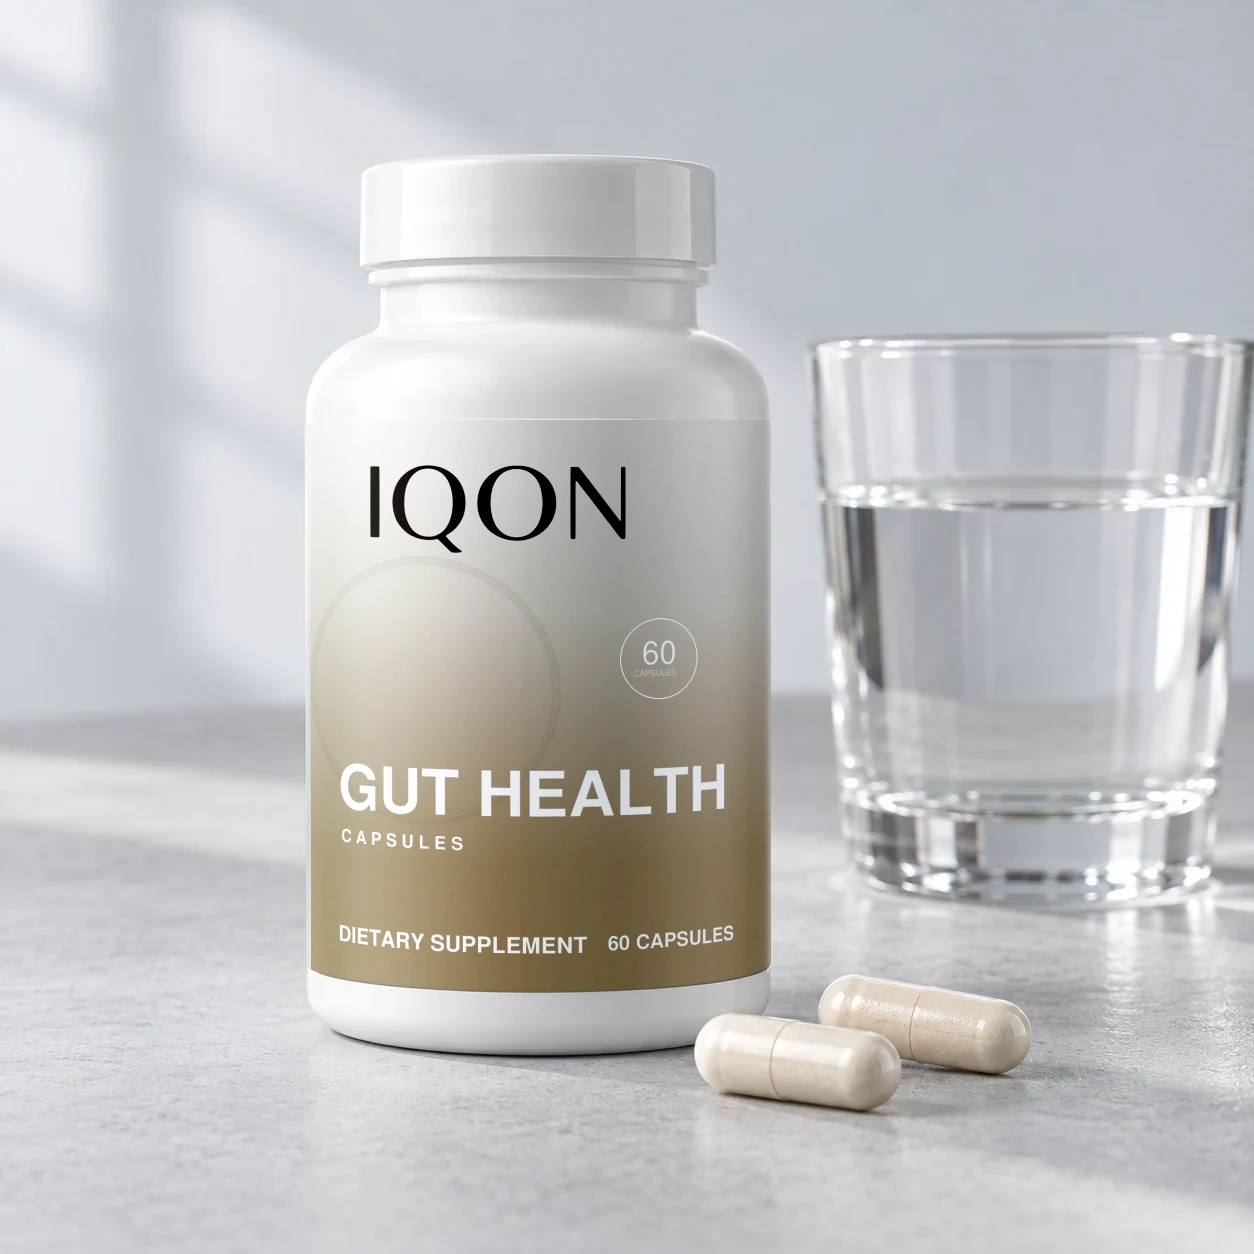
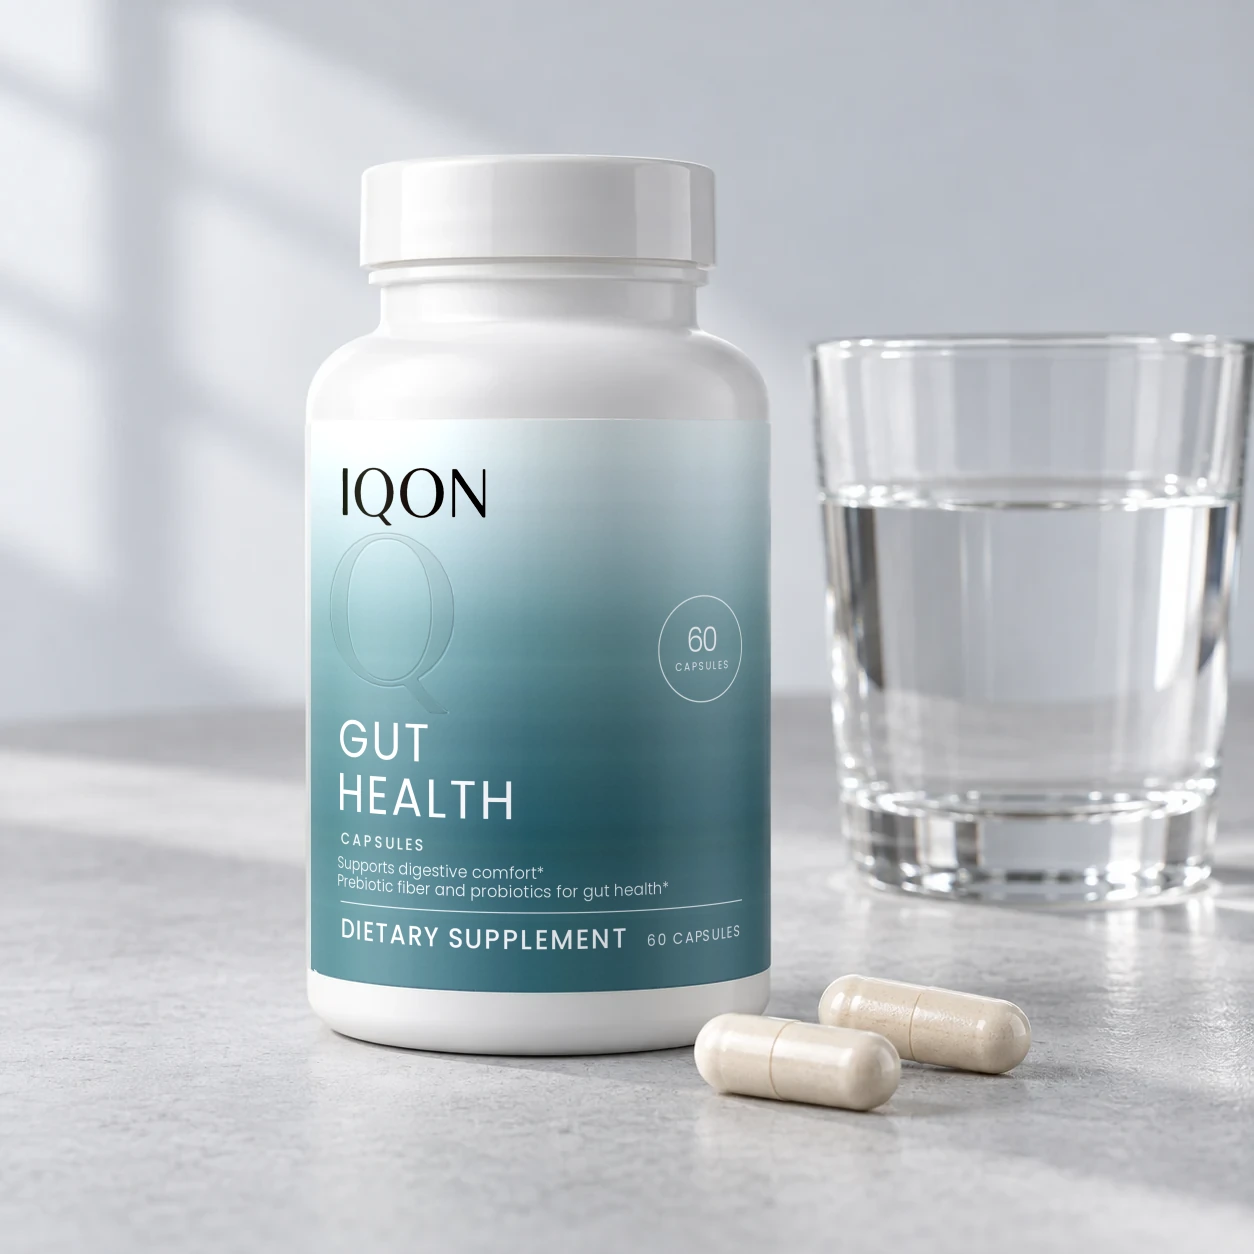
Recolour Gut Health imagery to the Colon petrol teal house label
The Gut Health label now uses the petrol teal gradient of the Colon Gentle
Cleanse label it replaces. The ground is calibrated row for row against the
live Colon pack shot. The label also follows the house layout of the other
bottles: light, letter-spaced name, CAPSULES, two asterisked benefit lines,
a hairline rule, DIETARY SUPPLEMENT / 60 CAPSULES and a hairline 60 badge.
This applies to the pack shot, the Supplement Facts view, the editorial
scene, the email thumbnail and the lineup slot. Same bottle, geometry and
backgrounds.

Changed region(s): [[0.2488, 0.3732, 0.622, 0.8086]]

diff --git a/docs/supplement-images.md b/docs/supplement-images.md
@@ -58,7 +58,9 @@ Eight generated alternatives were rejected for backdrop, scale or tiny-letter dr
 
 Colon Gentle Cleanse was retired and its site imagery removed (`04_pack_colon_cleanse`, `15_hero_colon_sachet`, its editorial scene and material photograph, and `sachet-macro`). The order email thumbnail `email/products/colon-gentle-cleanse.jpg` is kept so emails already sent keep their image.
 
-Gut Health imagery was produced locally from the final IQON label artwork (`IQON supplement labels/final/Gut Health/IQON_Gut_Health_Label_proof.png`; the PDF does not embed its Helvetica fonts, so the owner's proof is the faithful rasterisation) without generative services. The Liver Support studio bottle (`07_pack_liver_support.webp`, the same capsule bottle format) supplies the bottle, light and background. The label is wrapped onto the cylinder with edge foreshortening so only the front panel faces the camera, as on the other bottles: the FDA statement and Supplement Facts panels curve out of view. Lighting is fitted per column from the Liver label's own plain white and solid green bands, so highlight, rim light and edge falloff match the reference. The script is kept with the PR evidence (`make_packshot_v2.py`). These are faithful composites, not photographs of a physical Gut Health bottle; replace them with studio photography when available.
+Gut Health imagery was produced locally without generative services. The label uses the petrol teal of the Colon Gentle Cleanse label it replaces, and the house layout of the other IQON bottles. The front panel was rebuilt on the Liver Support label artwork (`IQON_LiverSupport_Label.pdf`, same 450×180 pt die line). The IQON wordmark, the Q watermark, CAPSULES, the hairline rule, DIETARY SUPPLEMENT, 60 CAPSULES and the badge ring are reused from that artwork. GUT HEALTH, the two benefit lines and the badge figure are set in Poppins at the sizes and tracking of the Liver text they replace. The benefit lines are "Supports digestive comfort*" and "Prebiotic fiber and probiotics for gut health*", the claims used in the product copy. The directions, FDA statement and Supplement Facts panels come from the Gut Health proof (`IQON supplement labels/final/Gut Health/IQON_Gut_Health_Label_proof.png`). The label ground gradient is calibrated so that the pack shot's centre column matches the live Colon pack shot (`iqon-colon-gentle-cleanse-petrol-teal.webp`) row for row.
+
+The Liver Support studio bottle (`07_pack_liver_support.webp`, the same capsule bottle format) supplies the bottle, light and background. The artwork is wrapped onto the cylinder, and its mapping is fitted to the Liver label printed in each photograph. Lighting is fitted per column from the Liver label's plain white and solid green bands, so highlight, rim light and edge falloff match the reference. Scripts are kept with the PR evidence (`teal_label_art.py`, `make_teal_v3.py`). These are faithful composites, not photographs of a physical Gut Health bottle; replace them with studio photography when available.
 
 - `04_pack_gut_health.webp`: primary pack shot, front panel.
 - `15_hero_gut_health_label.webp`: the same bottle turned to show the Supplement Facts panel.
@@ -66,4 +68,4 @@ Gut Health imagery was produced locally from the final IQON label artwork (`IQON
 - `supplement-materials-v1/gut-health.webp`: mirrored copy of the generic Keto-5 capsule material photograph (no packaging shown). The actual Gut Health capsule appearance has not been photographed.
 - `email/products/gut-health.jpg`: 240×300 email thumbnail from the pack shot.
 
-Of the group scenes, only `20_group_all_row` showed the Colon Gentle Cleanse jar. It is the default share image and appears in the Explore menu and affiliate page. Starting from the original lineup, the jar's column was replaced with a copy of the lineup's own Liver Support bottle, keeping its silhouette (161 px), label top line, bottom ellipse and rim falloff. The Gut Health front panel is wrapped on the same cylinder, clipped to that label area, scaled so the IQON wordmark matches the neighbours (about 68 px wide, top at y 525) and toned to the row's muted label colours (`make_lineup_v3.py` in the PR evidence). The narrower bottle's 40px difference was absorbed by extending the seamless background equally at both edges (same 2400×1018 size). The row again shows eleven products, Gut Health in the former Colon position. All other group scenes are unchanged.
+Of the group scenes, only `20_group_all_row` showed the Colon Gentle Cleanse jar. It is the default share image and appears in the Explore menu and affiliate page. Starting from the original lineup, the jar's column was replaced with a copy of the lineup's own Liver Support bottle, keeping its silhouette (161 px), label top line, bottom ellipse and rim falloff. The Gut Health front panel is wrapped on the same cylinder, clipped to that label area, with each text group placed on the row's own Liver Support label (IQON wordmark about 68 px wide, top at y 525). The ground uses the Colon petrol teal, muted to the row's label colours (`make_lineup_v4.py` in the PR evidence). The narrower bottle's 40px difference was absorbed by extending the seamless background equally at both edges (same 2400×1018 size). The row again shows eleven products, Gut Health in the former Colon position. All other group scenes are unchanged.
